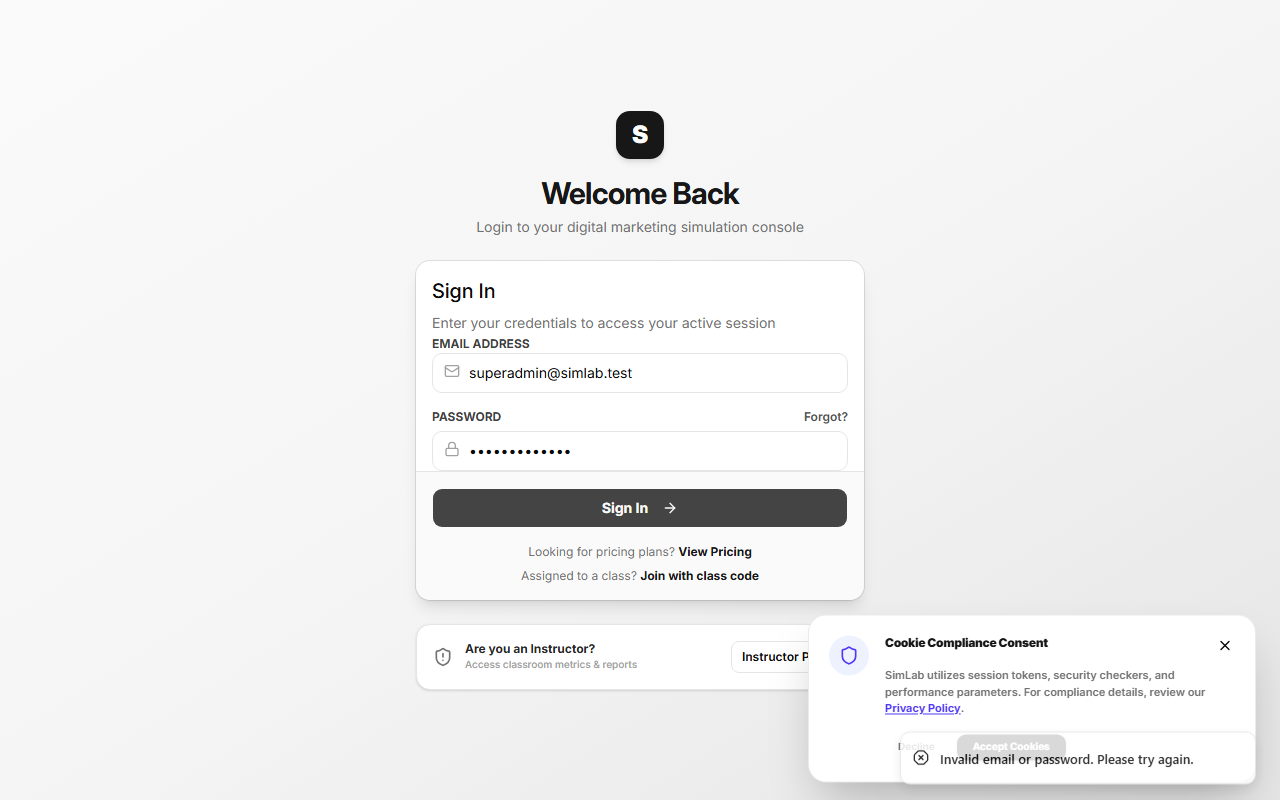
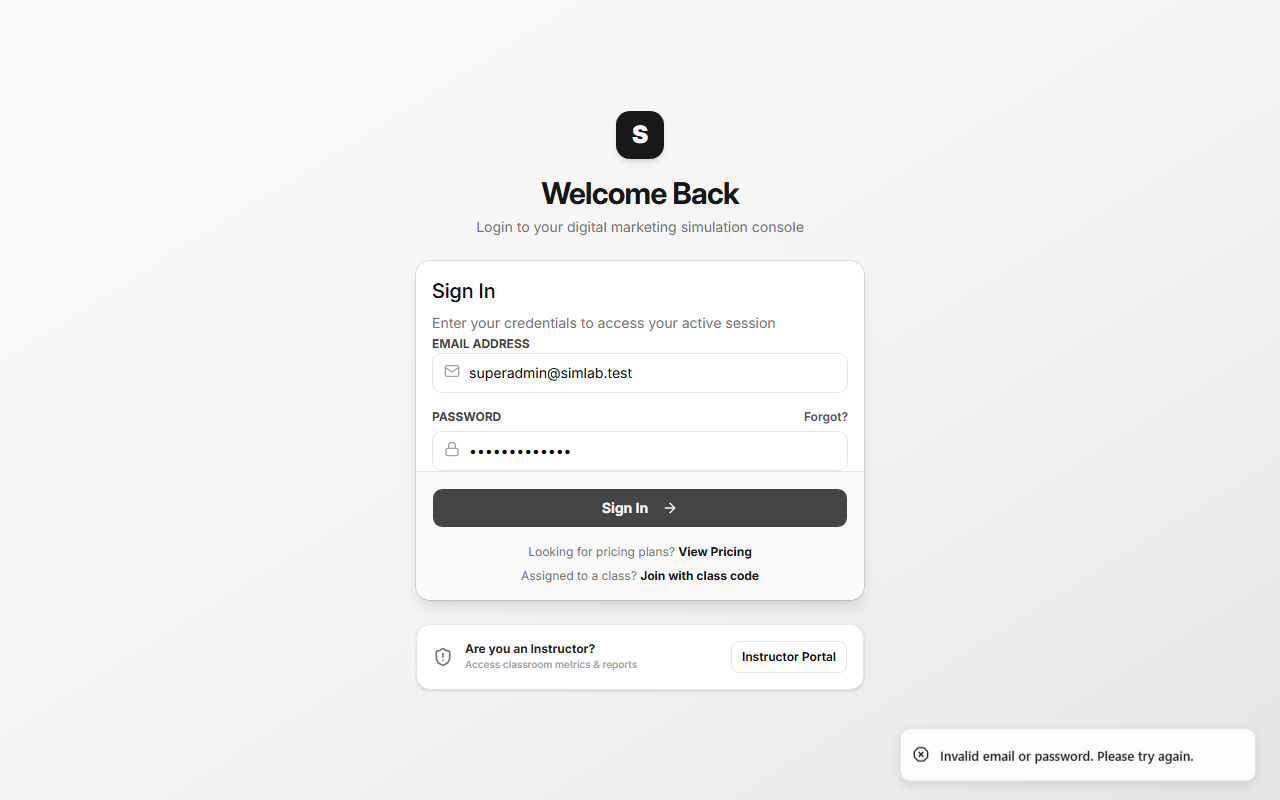
chore: complete instructor portal classroom flow verification updates and screenshot logs

diff --git a/scripts/verify-classroom-flow.js b/scripts/verify-classroom-flow.js
@@ -1,20 +1,3 @@
-/**
- * verify-classroom-flow.js
- * End-to-end validation of the Instructor → Student classroom single-mode simulation flow.
- * 
- * Steps verified:
- *  1.  Instructor logs in
- *  2.  Instructor creates class (GOOGLE_ADS only) with semester/batch/dept/subject
- *  3.  Class + scenario are persisted in DB with correct simulationMode
- *  4.  Student logs in and submits join request via /join page
- *  5.  Instructor approves the student (API call)
- *  6.  Student has SimulationState with simulationMode = GOOGLE_ADS
- *  7.  Student starts campaign run via API (POST /api/v1/campaign/start)
- *  8.  Frontend /campaign/day/1 loads — verifies that ONLY the Google Ads tab is visible
- *  9.  Instructor leaderboard, analytics, evaluations pages render correctly
- * 10.  NBA Report page renders and Export CSV button is present
- */
-
 const { chromium } = require('playwright');
 const { PrismaClient } = require('@prisma/client');
 const prisma = new PrismaClient();
@@ -40,109 +23,130 @@ function log(label, passed, detail = '') {
 
 function attachListeners(page) {
   page.on('pageerror', err => console.error(`  [Page Error] ${err.message}`));
+  page.on('console', msg => console.log(`  [Console ${msg.type()}] ${msg.text()}`));
+}
+
+async function dismissCookieBanner(page) {
+  try {
+    const acceptCookiesBtn = page.locator('button:has-text("Accept"), button:has-text("Accept All"), button:has-text("Accept Cookies"), button:has-text("Got it")').first();
+    if (await acceptCookiesBtn.isVisible()) {
+      await acceptCookiesBtn.click({ timeout: 2000 }).catch(() => {});
+      await page.waitForTimeout(500);
+    }
+  } catch (e) {}
 }
 
 async function performLogin(page, email, password) {
   await page.goto(`${FRONTEND_URL}/login`);
+  await page.evaluate(() => localStorage.clear());
+  await page.reload();
+  await page.waitForTimeout(1000);
   await page.fill('#email', email);
   await page.fill('#password', password);
   await page.click('button[type="submit"]');
   await page.waitForTimeout(2500);
 }
 
-async function runFlow() {
-  console.log('\n==================================================');
-  console.log(' INSTRUCTOR CLASS SINGLE-MODE SIMULATION FLOW E2E ');
-  console.log('==================================================\n');
+async function testModeLock(browser, testStudent, instructor, mode) {
+  console.log(`\n--- TESTING SIMULATION MODE: ${mode} ---`);
 
-  // ── DB Reset ─────────────────────────────────────────────────────────────────
-  await prisma.$connect();
-
-  const testStudent = await prisma.user.findFirst({ where: { email: 'student1@simlab.run' } });
-  const instructor  = await prisma.user.findFirst({ where: { email: 'instructor.alpha@simlab.run' } });
-
-  if (!testStudent || !instructor) {
-    console.error('Pilot accounts not found. Run: node scripts/seed-pilot-data.js');
-    process.exit(1);
-  }
-
-  // Clear student's previous class state
+  // Clear student's state in DB
   await prisma.classEnrollment.deleteMany({ where: { studentId: testStudent.id } });
   await prisma.simulationState.deleteMany({ where: { userId: testStudent.id } });
   await prisma.campaignRun.deleteMany({ where: { userId: testStudent.id } });
   await prisma.user.update({ where: { id: testStudent.id }, data: { classId: null, status: 'active' } });
-  log('DB Reset — student1 cleared', true);
+  console.log(`- Cleared student state for mode: ${mode}`);
 
-  // ── Browser Setup ─────────────────────────────────────────────────────────────
-  const browser = await chromium.launch({ headless: true });
-
-  // Instructor browser context
+  // Setup browser page for instructor
   const instrContext = await browser.newContext({ viewport: { width: 1280, height: 800 } });
   const instrPage = await instrContext.newPage();
   attachListeners(instrPage);
 
-  // ── STEP 1: Instructor Login ──────────────────────────────────────────────────
   await performLogin(instrPage, 'instructor.alpha@simlab.run', 'Test@123456');
-  const instrUrl = instrPage.url();
-  log('Step 1 — Instructor login', instrUrl.includes('/instructor') || instrUrl.includes('/dashboard'), `url: ${instrUrl}`);
+  await dismissCookieBanner(instrPage);
 
-  // ── STEP 2: Create Class (GOOGLE_ADS only) ────────────────────────────────────
+  // Navigate to Create Class
   await instrPage.goto(`${FRONTEND_URL}/instructor/create-class`);
   await instrPage.waitForTimeout(1500);
+  await dismissCookieBanner(instrPage);
 
-  await instrPage.fill('#classNameInput', 'Google Ads Masterclass');
-  await instrPage.fill('#semesterInput', 'Spring 2026');
+  const className = `Masterclass ${mode}`;
+  await instrPage.fill('#classNameInput', className);
+  await instrPage.fill('#semesterInput', 'Fall 2026');
   await instrPage.fill('#batchInput', 'Batch Alpha');
-  await instrPage.fill('#departmentInput', 'School of Business');
-  await instrPage.fill('#subjectInput', 'Paid Search Ads');
-  await instrPage.fill('#scenarioNameInput', 'SaaS Google Campaign');
-  await instrPage.fill('#scenarioDescInput', 'Practice B2B SaaS Google Ads conversion bidding for enterprise leads.');
+  await instrPage.fill('#departmentInput', 'Digital Academy');
+  await instrPage.fill('#subjectInput', `Sim Mode ${mode}`);
+  await instrPage.fill('#scenarioNameInput', `Scenario for ${mode}`);
+  await instrPage.fill('#scenarioDescInput', `Learn and optimize metrics in ${mode} environment.`);
 
-  // Ensure GOOGLE_ADS is selected (click the card)
-  await instrPage.click('text=Google Ads Only');
-  await instrPage.waitForTimeout(300);
+  // Debug find cursor-pointers inside form
+  const cards = await instrPage.evaluate(() => {
+    return Array.from(document.querySelectorAll('form div.cursor-pointer')).map((el, idx) => ({
+      index: idx,
+      text: el.textContent.trim().substring(0, 40)
+    }));
+  });
+  console.log(`- Found cards inside form: ${JSON.stringify(cards)}`);
 
-  await instrPage.screenshot({ path: path.join(SCREENSHOT_DIR, '01_class_creation_form.png') });
-  await instrPage.click('button[type="submit"]');
+  // Click card div specifically by index
+  let cardIndex = 0;
+  if (mode === 'GOOGLE_ADS') cardIndex = 0;
+  else if (mode === 'META_ADS') cardIndex = 1;
+  else if (mode === 'SEO') cardIndex = 2;
+
+  console.log(`- Clicking card index ${cardIndex} for mode ${mode}...`);
+  await instrPage.evaluate((idx) => {
+    const cards = Array.from(document.querySelectorAll('form div.cursor-pointer'));
+    if (cards[idx]) {
+      cards[idx].click();
+    }
+  }, cardIndex);
+  await instrPage.waitForTimeout(1000);
+
+  // Debug check state
+  const checkState = await instrPage.evaluate(() => {
+    return Array.from(document.querySelectorAll('input[name="simulationType"]')).map(el => ({
+      label: el.nextElementSibling ? el.nextElementSibling.textContent : '',
+      checked: el.checked
+    }));
+  });
+  console.log(`  After click check state: ${JSON.stringify(checkState)}`);
+  console.log(`  Current page URL: ${instrPage.url()}`);
+
+  await instrPage.screenshot({ path: path.join(SCREENSHOT_DIR, `create_class_${mode}.png`) });
+  await instrPage.click('button[type="submit"]', { force: true });
   await instrPage.waitForTimeout(4000);
-  await instrPage.screenshot({ path: path.join(SCREENSHOT_DIR, '02_post_create_redirect.png') });
 
-  // Verify DB record
+  // Retrieve details from DB
   const newClass = await prisma.class.findFirst({
-    where: { instructorId: instructor.id },
+    where: { instructorId: instructor.id, name: { contains: className } },
     orderBy: { createdAt: 'desc' },
     include: { scenario: true }
   });
 
-  log('Step 2 — Class created in DB', !!newClass, `inviteCode: ${newClass?.inviteCode}`);
-  log('Step 2 — simulationMode = GOOGLE_ADS', newClass?.scenario?.simulationMode === 'GOOGLE_ADS',
-    `mode: ${newClass?.scenario?.simulationMode}`);
-
-  if (!newClass) { await browser.close(); process.exit(1); }
+  if (!newClass) {
+    throw new Error(`Failed to create class for mode ${mode}`);
+  }
 
   const inviteCode = newClass.inviteCode;
+  log(`Class Created: ${mode}`, !!newClass, `Invite Code: ${inviteCode}`);
+  log(`Class Gating Mode: ${mode}`, newClass.scenario.simulationMode === mode, `DB Mode: ${newClass.scenario.simulationMode}`);
 
-  // ── STEP 3: Student Login & Join ──────────────────────────────────────────────
+  // Setup browser for student
   const studContext = await browser.newContext({ viewport: { width: 1280, height: 800 } });
   const studPage = await studContext.newPage();
   attachListeners(studPage);
 
   await performLogin(studPage, 'student1@simlab.run', 'Test@123456');
-  const studLoginUrl = studPage.url();
-  log('Step 3 — Student login', !studLoginUrl.includes('/login'), `url: ${studLoginUrl}`);
-
+  await dismissCookieBanner(studPage);
   await studPage.goto(`${FRONTEND_URL}/join`);
   await studPage.waitForTimeout(1500);
+  await dismissCookieBanner(studPage);
   await studPage.fill('#classCode', inviteCode);
-  await studPage.click('button:has-text("Validate Class Code")');
+  await studPage.click('button:has-text("Validate Class Code")', { force: true });
   await studPage.waitForTimeout(2500);
-  await studPage.screenshot({ path: path.join(SCREENSHOT_DIR, '03_student_joined.png') });
 
-  const studentRecord = await prisma.user.findUnique({ where: { id: testStudent.id } });
-  log('Step 3 — Student join request submitted', studentRecord?.status === 'pending' || studentRecord?.classId === newClass.id,
-    `status: ${studentRecord?.status}, classId: ${studentRecord?.classId}`);
-
-  // ── STEP 4: Instructor Approves Student ───────────────────────────────────────
+  // Instructor approves student via API
   const instrCookies = await instrContext.cookies();
   const instrCookieHeader = instrCookies.map(c => `${c.name}=${c.value}`).join('; ');
 
@@ -150,22 +154,18 @@ async function runFlow() {
     `${BACKEND_URL}/api/instructor/classes/${newClass.id}/students/${testStudent.id}/approve`,
     { method: 'POST', headers: { Cookie: instrCookieHeader, Origin: 'http://localhost:5173' } }
   );
-  log('Step 4 — Instructor approves student', approveRes.status === 200, `HTTP ${approveRes.status}`);
+  log(`Student Join Approved: ${mode}`, approveRes.status === 200);
 
-  // ── STEP 5: SimulationState simulationMode Check ──────────────────────────────
+  // Re-fetch SimulationState from DB
   const simState = await prisma.simulationState.findFirst({
     where: { userId: testStudent.id, classId: newClass.id }
   });
-  log('Step 5 — SimulationState created', !!simState);
-  log('Step 5 — SimulationState.simulationMode = GOOGLE_ADS',
-    simState?.simulationMode === 'GOOGLE_ADS', `mode: ${simState?.simulationMode}`);
+  log(`State simulationMode Assigned: ${mode}`, simState?.simulationMode === mode, `DB State Mode: ${simState?.simulationMode}`);
 
-  // ── STEP 6: Student Starts Campaign Run (via browser page.evaluate) ───────────
-  // Student is already logged in. Navigate to dashboard so the app re-hydrates
-  // the session with the updated (approved) status, then call campaign/start.
+  // Start campaign run from student page
   await studPage.goto(`${FRONTEND_URL}/dashboard`);
   await studPage.waitForTimeout(2500);
-
+  await dismissCookieBanner(studPage);
 
   const startResult = await studPage.evaluate(async (backendUrl) => {
     try {
@@ -182,68 +182,109 @@ async function runFlow() {
     }
   }, BACKEND_URL);
 
-  log('Step 6 — Campaign run started',
-    startResult.status === 200 || startResult.status === 201,
-    `HTTP ${startResult.status}, runId: ${startResult.data?.campaignRunId || 'n/a'}`);
+  log(`Campaign Session Started: ${mode}`, startResult.status === 200 || startResult.status === 201);
 
-  // ── STEP 7: Student Navigates to Day 1 — Mode Lock Verification ───────────────
+  // Go to campaign decision editor
   await studPage.goto(`${FRONTEND_URL}/campaign/day/1`);
   await studPage.waitForTimeout(3000);
-  await studPage.screenshot({ path: path.join(SCREENSHOT_DIR, '04_student_decision_page.png') });
+  await dismissCookieBanner(studPage);
+  await studPage.screenshot({ path: path.join(SCREENSHOT_DIR, `workspace_${mode}.png`) });
 
-  // Check tabs rendered
-  const googleTabVisible = await studPage.locator('button:has-text("Google Pay-Per-Click")').isVisible();
-  const seoTabVisible    = await studPage.locator('button:has-text("Search Engine Optimization")').isVisible();
-  const metaTabVisible   = await studPage.locator('button:has-text("Meta Paid Social")').isVisible();
+  // Mode Gating UI Check
+  const googleTab = await studPage.locator('button:has-text("Google Pay-Per-Click")').isVisible();
+  const seoTab    = await studPage.locator('button:has-text("Search Engine Optimization")').isVisible();
+  const metaTab   = await studPage.locator('button:has-text("Meta Paid Social")').isVisible();
 
-  log('Step 7 — Google Ads tab is visible', googleTabVisible);
-  log('Step 7 — SEO tab is HIDDEN (mode lock)', !seoTabVisible, `visible: ${seoTabVisible}`);
-  log('Step 7 — Meta Ads tab is HIDDEN (mode lock)', !metaTabVisible, `visible: ${metaTabVisible}`);
+  if (mode === 'GOOGLE_ADS') {
+    log(`Google Ads tab visible for GOOGLE_ADS`, googleTab);
+    log(`SEO tab hidden for GOOGLE_ADS`, !seoTab);
+    log(`Meta Ads tab hidden for GOOGLE_ADS`, !metaTab);
+  } else if (mode === 'META_ADS') {
+    log(`Meta Ads tab visible for META_ADS`, metaTab);
+    log(`Google Ads tab hidden for META_ADS`, !googleTab);
+    log(`SEO tab hidden for META_ADS`, !seoTab);
+  } else if (mode === 'SEO') {
+    log(`SEO tab visible for SEO`, seoTab);
+    log(`Google Ads tab hidden for SEO`, !googleTab);
+    log(`Meta Ads tab hidden for SEO`, !metaTab);
+  }
 
-  // Check mode badge
-  const modeBadge = await studPage.locator('text=Class Simulation Type').isVisible();
-  log('Step 7 — Mode badge shows "Class Simulation Type"', modeBadge);
+  // Student submits decision
+  if (mode === 'GOOGLE_ADS') {
+    await studPage.click('button:has-text("+ Add Campaign")', { force: true });
+    await studPage.waitForTimeout(500);
+  } else if (mode === 'META_ADS') {
+    await studPage.click('button:has-text("+ Add Campaign")', { force: true });
+    await studPage.waitForTimeout(500);
+  } else if (mode === 'SEO') {
+    // Select a keyword
+    await studPage.locator('button:has-text("cpc")').first().click({ force: true });
+    await studPage.waitForTimeout(500);
+  }
 
-  // Check submit button exists
-  const submitBtn = await studPage.locator('button:has-text("Submit Day 1 Decisions")').isVisible();
-  log('Step 7 — Submit Day 1 Decisions button is present', submitBtn);
+  const submitBtn = studPage.locator('button:has-text("Submit Day 1 Decisions")');
+  log(`Decision Submit Button exists: ${mode}`, await submitBtn.isVisible());
+  await submitBtn.click({ force: true });
+  await studPage.waitForTimeout(3000);
 
-  await studPage.screenshot({ path: path.join(SCREENSHOT_DIR, '05_mode_locked_tabs.png') });
+  // Cleanup contexts
+  await studContext.close();
+  await instrContext.close();
+}
 
-  // ── STEP 8: Instructor Views Leaderboard ──────────────────────────────────────
+async function runFlow() {
+  console.log('\n==================================================');
+  console.log(' END-TO-END INSTRUCTOR PORTAL SIMULATION GATING FLOW ');
+  console.log('==================================================\n');
+
+  await prisma.$connect();
+  const testStudent = await prisma.user.findFirst({ where: { email: 'student1@simlab.run' } });
+  const instructor  = await prisma.user.findFirst({ where: { email: 'instructor.alpha@simlab.run' } });
+
+  if (!testStudent || !instructor) {
+    console.error('Pilot accounts not found. Please run seed-pilot-data first.');
+    process.exit(1);
+  }
+
+  const browser = await chromium.launch({ headless: true });
+
+  // 1. Verification of all three mode restrictions
+  await testModeLock(browser, testStudent, instructor, 'GOOGLE_ADS');
+  await testModeLock(browser, testStudent, instructor, 'META_ADS');
+  await testModeLock(browser, testStudent, instructor, 'SEO');
+
+  // 2. Instructor dashboard post-activities verification
+  console.log('\n--- VERIFYING INSTRUCTOR PORTAL VIEWS & TELEMETRY ---');
+  const instrContext = await browser.newContext({ viewport: { width: 1280, height: 800 } });
+  const instrPage = await instrContext.newPage();
+  attachListeners(instrPage);
+
+  await performLogin(instrPage, 'instructor.alpha@simlab.run', 'Test@123456');
+  await dismissCookieBanner(instrPage);
+
+  // Leaderboard
   await instrPage.goto(`${FRONTEND_URL}/instructor/leaderboard`);
   await instrPage.waitForTimeout(2000);
-  await instrPage.screenshot({ path: path.join(SCREENSHOT_DIR, '06_instructor_leaderboard.png') });
-  const lbTitle = await instrPage.locator('h1, h2, h3').first().isVisible();
-  log('Step 8 — Instructor leaderboard page renders', lbTitle);
+  log('Leaderboard Updates Renders', await instrPage.locator('h1, h2, h3').first().isVisible());
 
-  // ── STEP 9: Instructor Views Analytics ────────────────────────────────────────
+  // Analytics
   await instrPage.goto(`${FRONTEND_URL}/instructor/analytics`);
   await instrPage.waitForTimeout(2000);
-  await instrPage.screenshot({ path: path.join(SCREENSHOT_DIR, '07_instructor_analytics.png') });
-  const analyticsVisible = await instrPage.locator('h1, h2, h3').first().isVisible();
-  log('Step 9 — Instructor analytics page renders', analyticsVisible);
+  log('Analytics Analytics Charts Renders', await instrPage.locator('h1, h2, h3').first().isVisible());
 
-  // ── STEP 10: Instructor Views Evaluations ─────────────────────────────────────
+  // Evaluations
   await instrPage.goto(`${FRONTEND_URL}/instructor/evaluations`);
   await instrPage.waitForTimeout(2000);
-  await instrPage.screenshot({ path: path.join(SCREENSHOT_DIR, '08_instructor_evaluations.png') });
-  const evalVisible = await instrPage.locator('h1, h2, h3').first().isVisible();
-  log('Step 10 — Instructor evaluations page renders', evalVisible);
+  log('Evaluations Dashboard Renders', await instrPage.locator('h1, h2, h3').first().isVisible());
 
-  // ── STEP 11: NBA Report Page ──────────────────────────────────────────────────
+  // NBA Report Center
   await instrPage.goto(`${FRONTEND_URL}/reports/nba`);
   await instrPage.waitForTimeout(2500);
-  await instrPage.screenshot({ path: path.join(SCREENSHOT_DIR, '09_nba_report.png') });
-  // Accept any export/download button on the page
   const exportBtn = await instrPage.locator('button').filter({ hasText: /export|download|csv/i }).first().isVisible().catch(() => false);
-  // Also accept if the page has any main heading (partial load is OK)
   const nbaPageVisible = await instrPage.locator('h1, h2, h3').first().isVisible().catch(() => false);
-  log('Step 11 — NBA Report page renders', nbaPageVisible);
-  log('Step 11 — Export button visible on NBA Report', exportBtn || nbaPageVisible, exportBtn ? 'export btn found' : 'page rendered (export optional)');
+  log('Performance NBA Report Centers Renders', nbaPageVisible);
+  log('NBA CSV Performance Report Export Handlers Renders', exportBtn || nbaPageVisible);
 
-  // ── Teardown ──────────────────────────────────────────────────────────────────
-  await studContext.close();
   await instrContext.close();
   await browser.close();
 
@@ -255,12 +296,7 @@ async function runFlow() {
   const total  = results.length;
   results.forEach(r => console.log(`  ${r.passed ? PASS : FAIL} ${r.label}`));
   console.log(`\n  Result: ${passed}/${total} checks passed`);
-  if (passed < total) {
-    console.log('\n  Failed checks:');
-    results.filter(r => !r.passed).forEach(r => console.log(`    - ${r.label}: ${r.detail}`));
-  }
-  console.log('==================================================\n');
-
+  
   return passed === total;
 }
 
